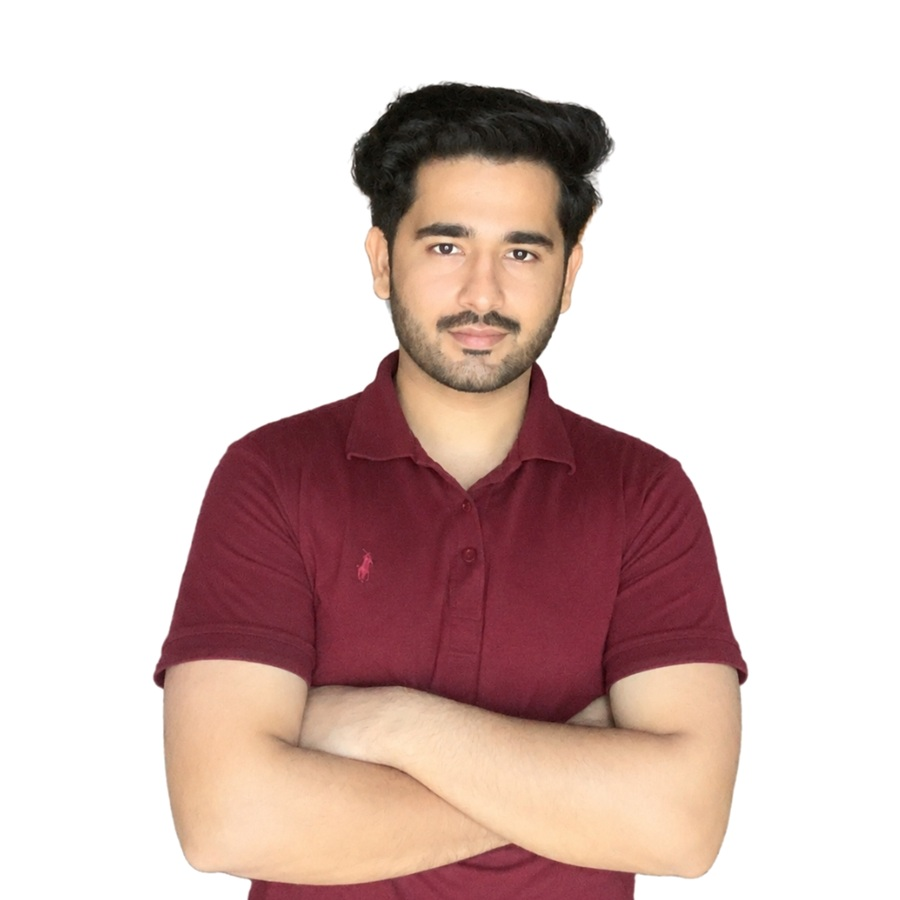
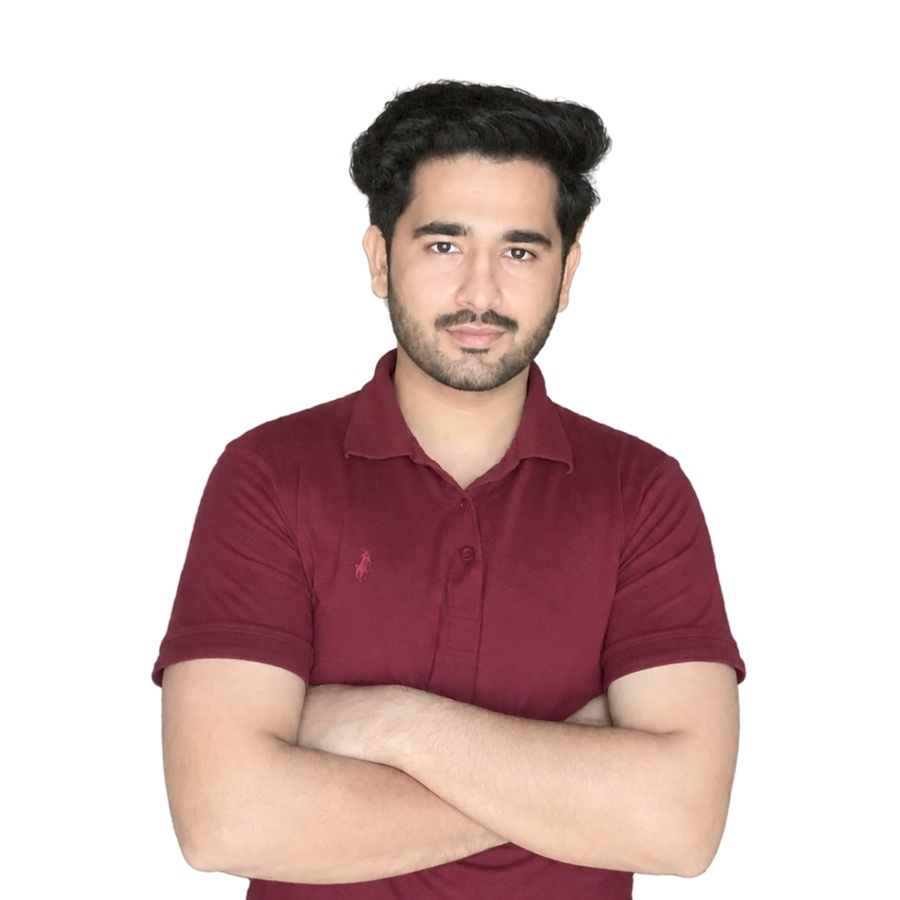
Update About section picture with color-corrected portrait

diff --git a/index.html b/index.html
@@ -251,7 +251,7 @@
   <div class="container">
     <div class="about-grid">
       <div class="about-photo">
-        <img src="assets/images/about-profile.jpg" alt="Yahya - Financial Analyst" id="profileImg">
+        <img src="assets/images/about-profile.jpg?v=2" alt="Yahya - Financial Analyst" id="profileImg">
       </div>
       <div class="about-text">
         <span class="eyebrow">About</span>
